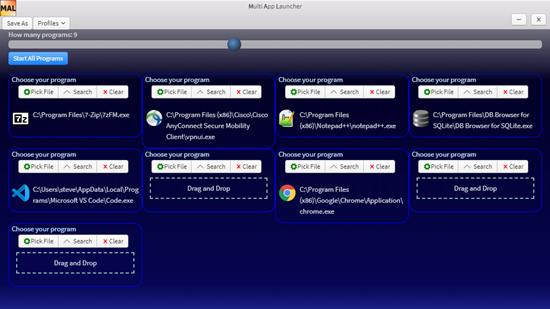
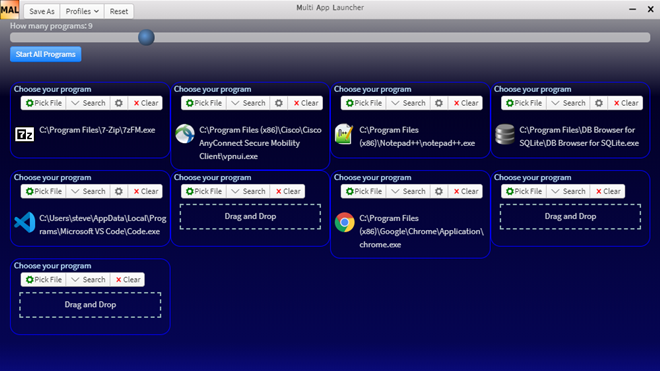
Updated packages
Updated documentation

diff --git a/README.md b/README.md
@@ -30,6 +30,13 @@ Once you have all the programs you like, simple save your profile.
 You can have as many profiles as you like.  
 ![Profile](screenshots/profiles.png)
 
+Lastly, can you add optional arguments to the startup command.  
+For instance, to start Chrome in 'Incognito', click the gear icon and type `--incognito`  
+into the options modal.  
+Many programs have startup options that can be set. Two examples are:   
+Firefox's list can be found [here](https://developer.mozilla.org/en-US/docs/Mozilla/Command_Line_Options).  
+Chrome's list can be found [here](https://peter.sh/experiments/chromium-command-line-switches/).  
+
 ### Updates
 The program checks for any updates at launch.   
 If there are any updates available, a notification will appear on the icon in the top left.   
